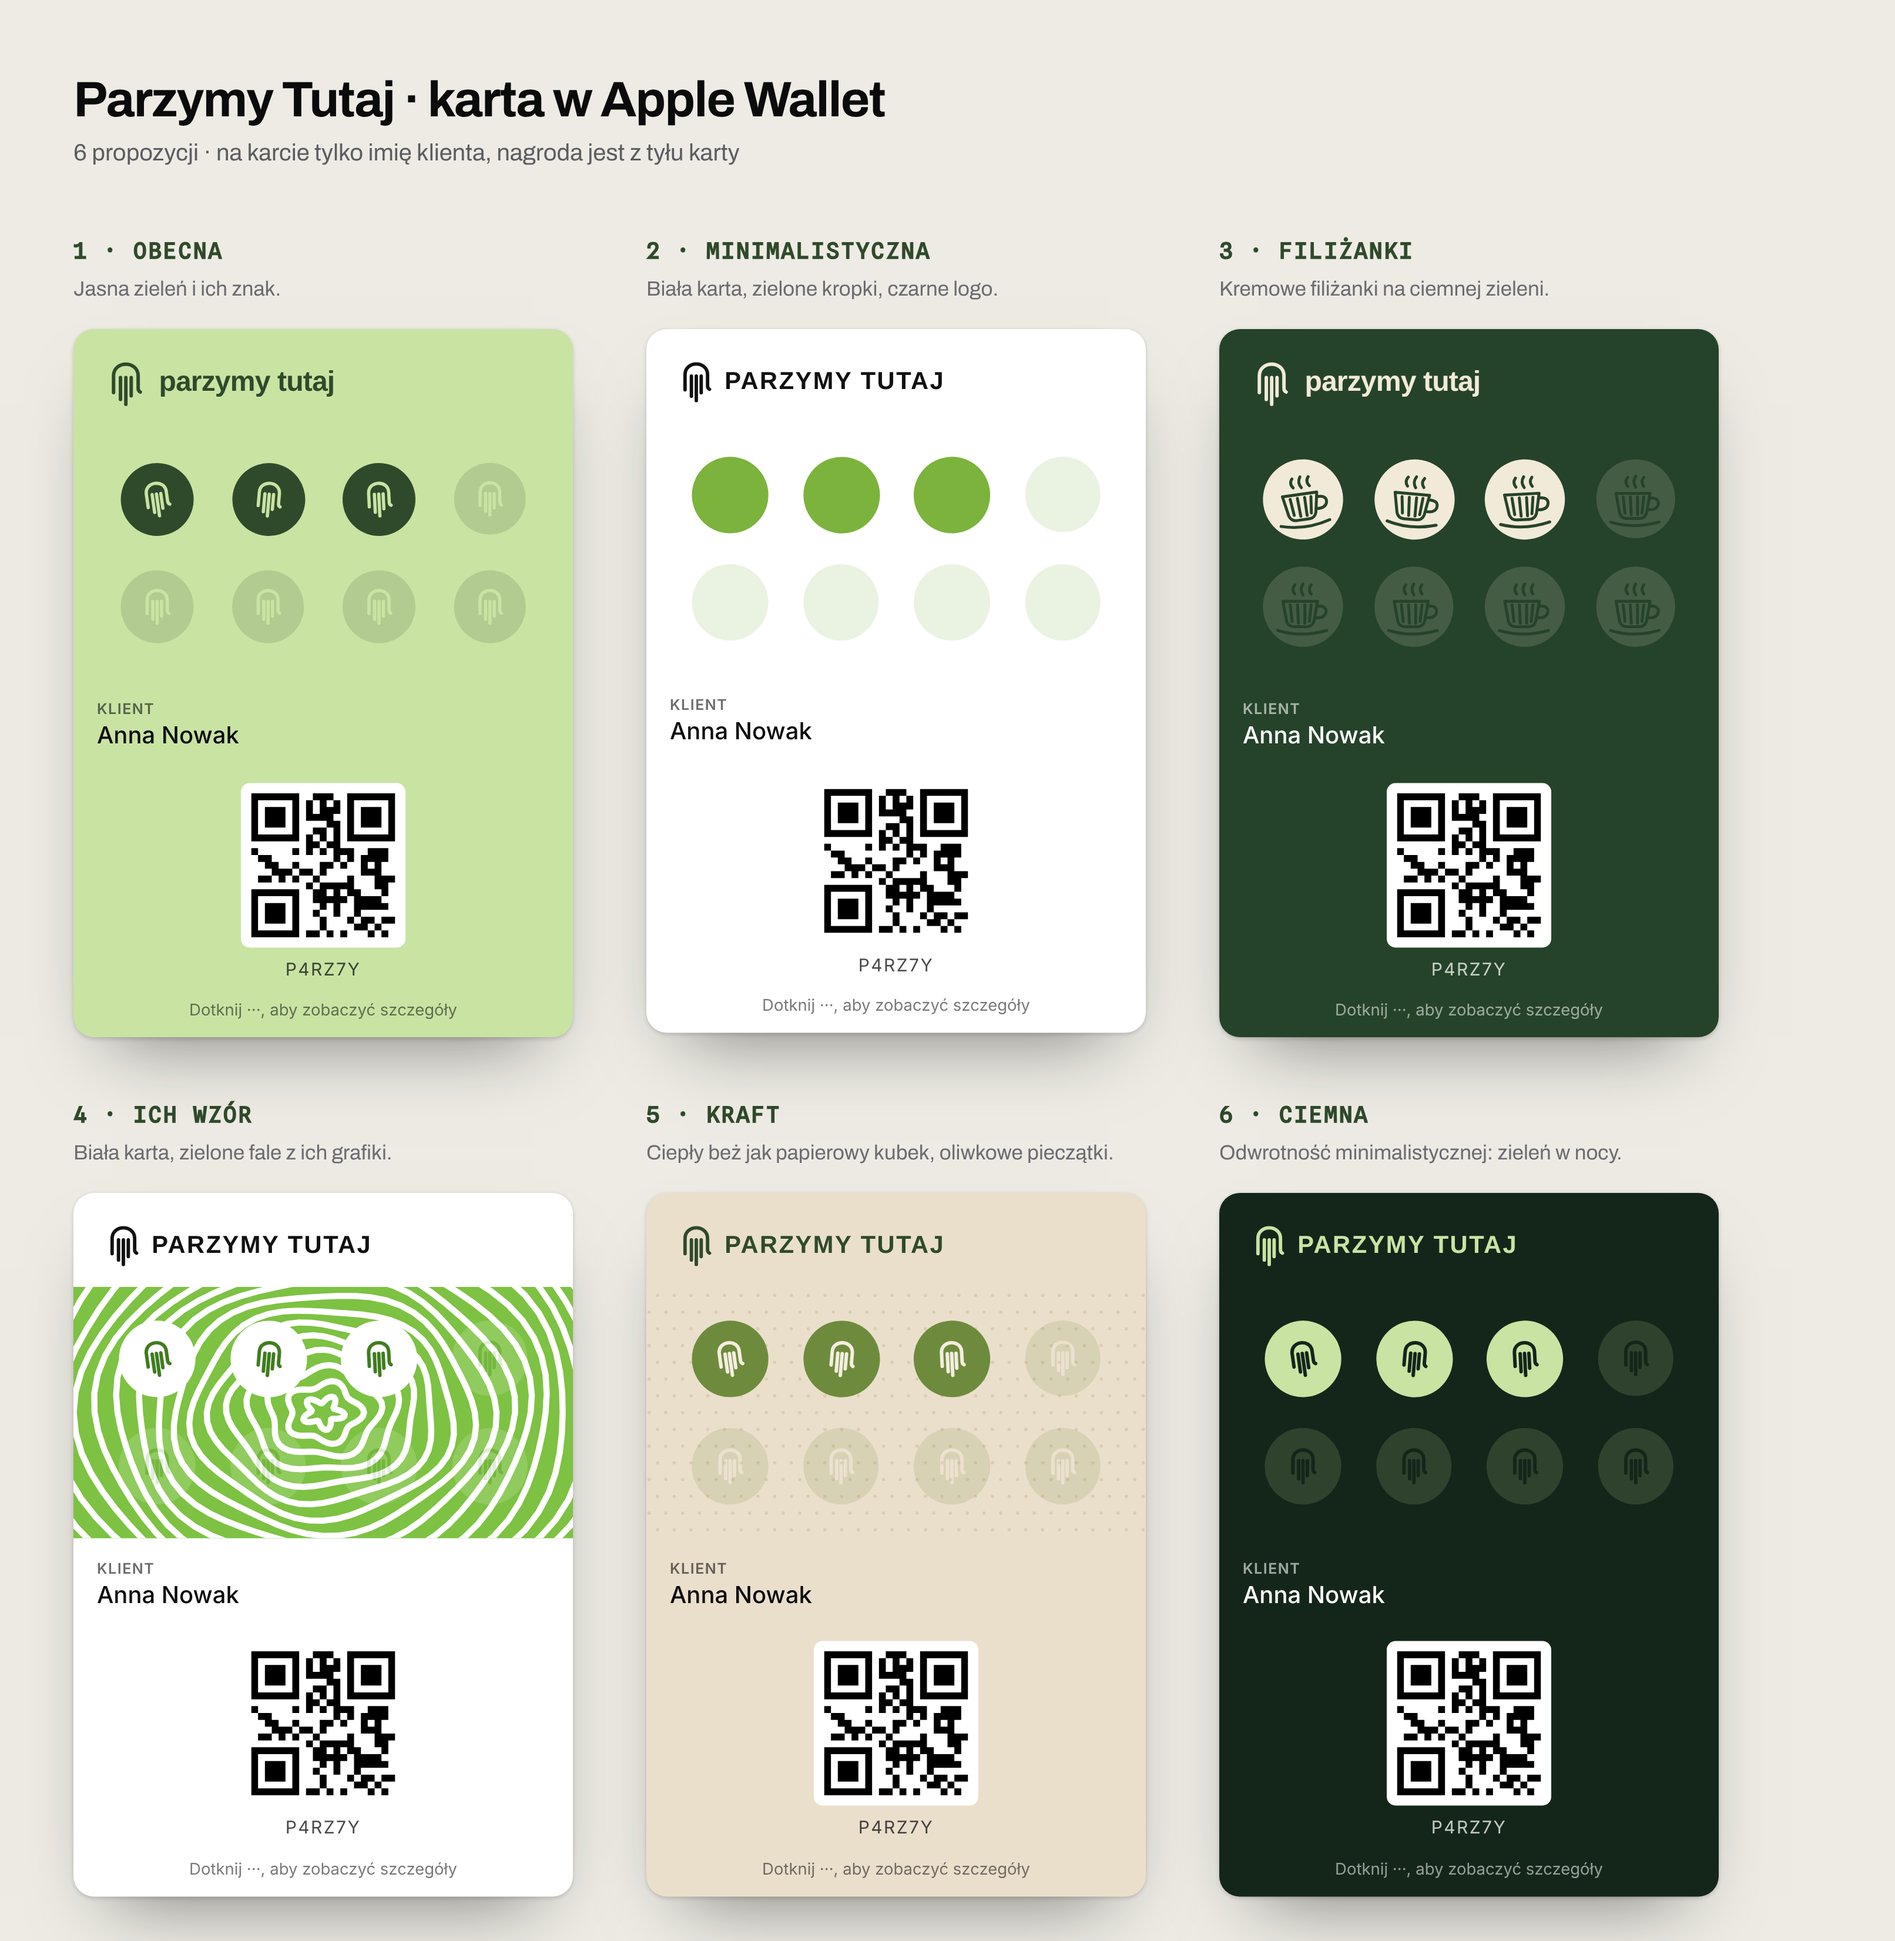
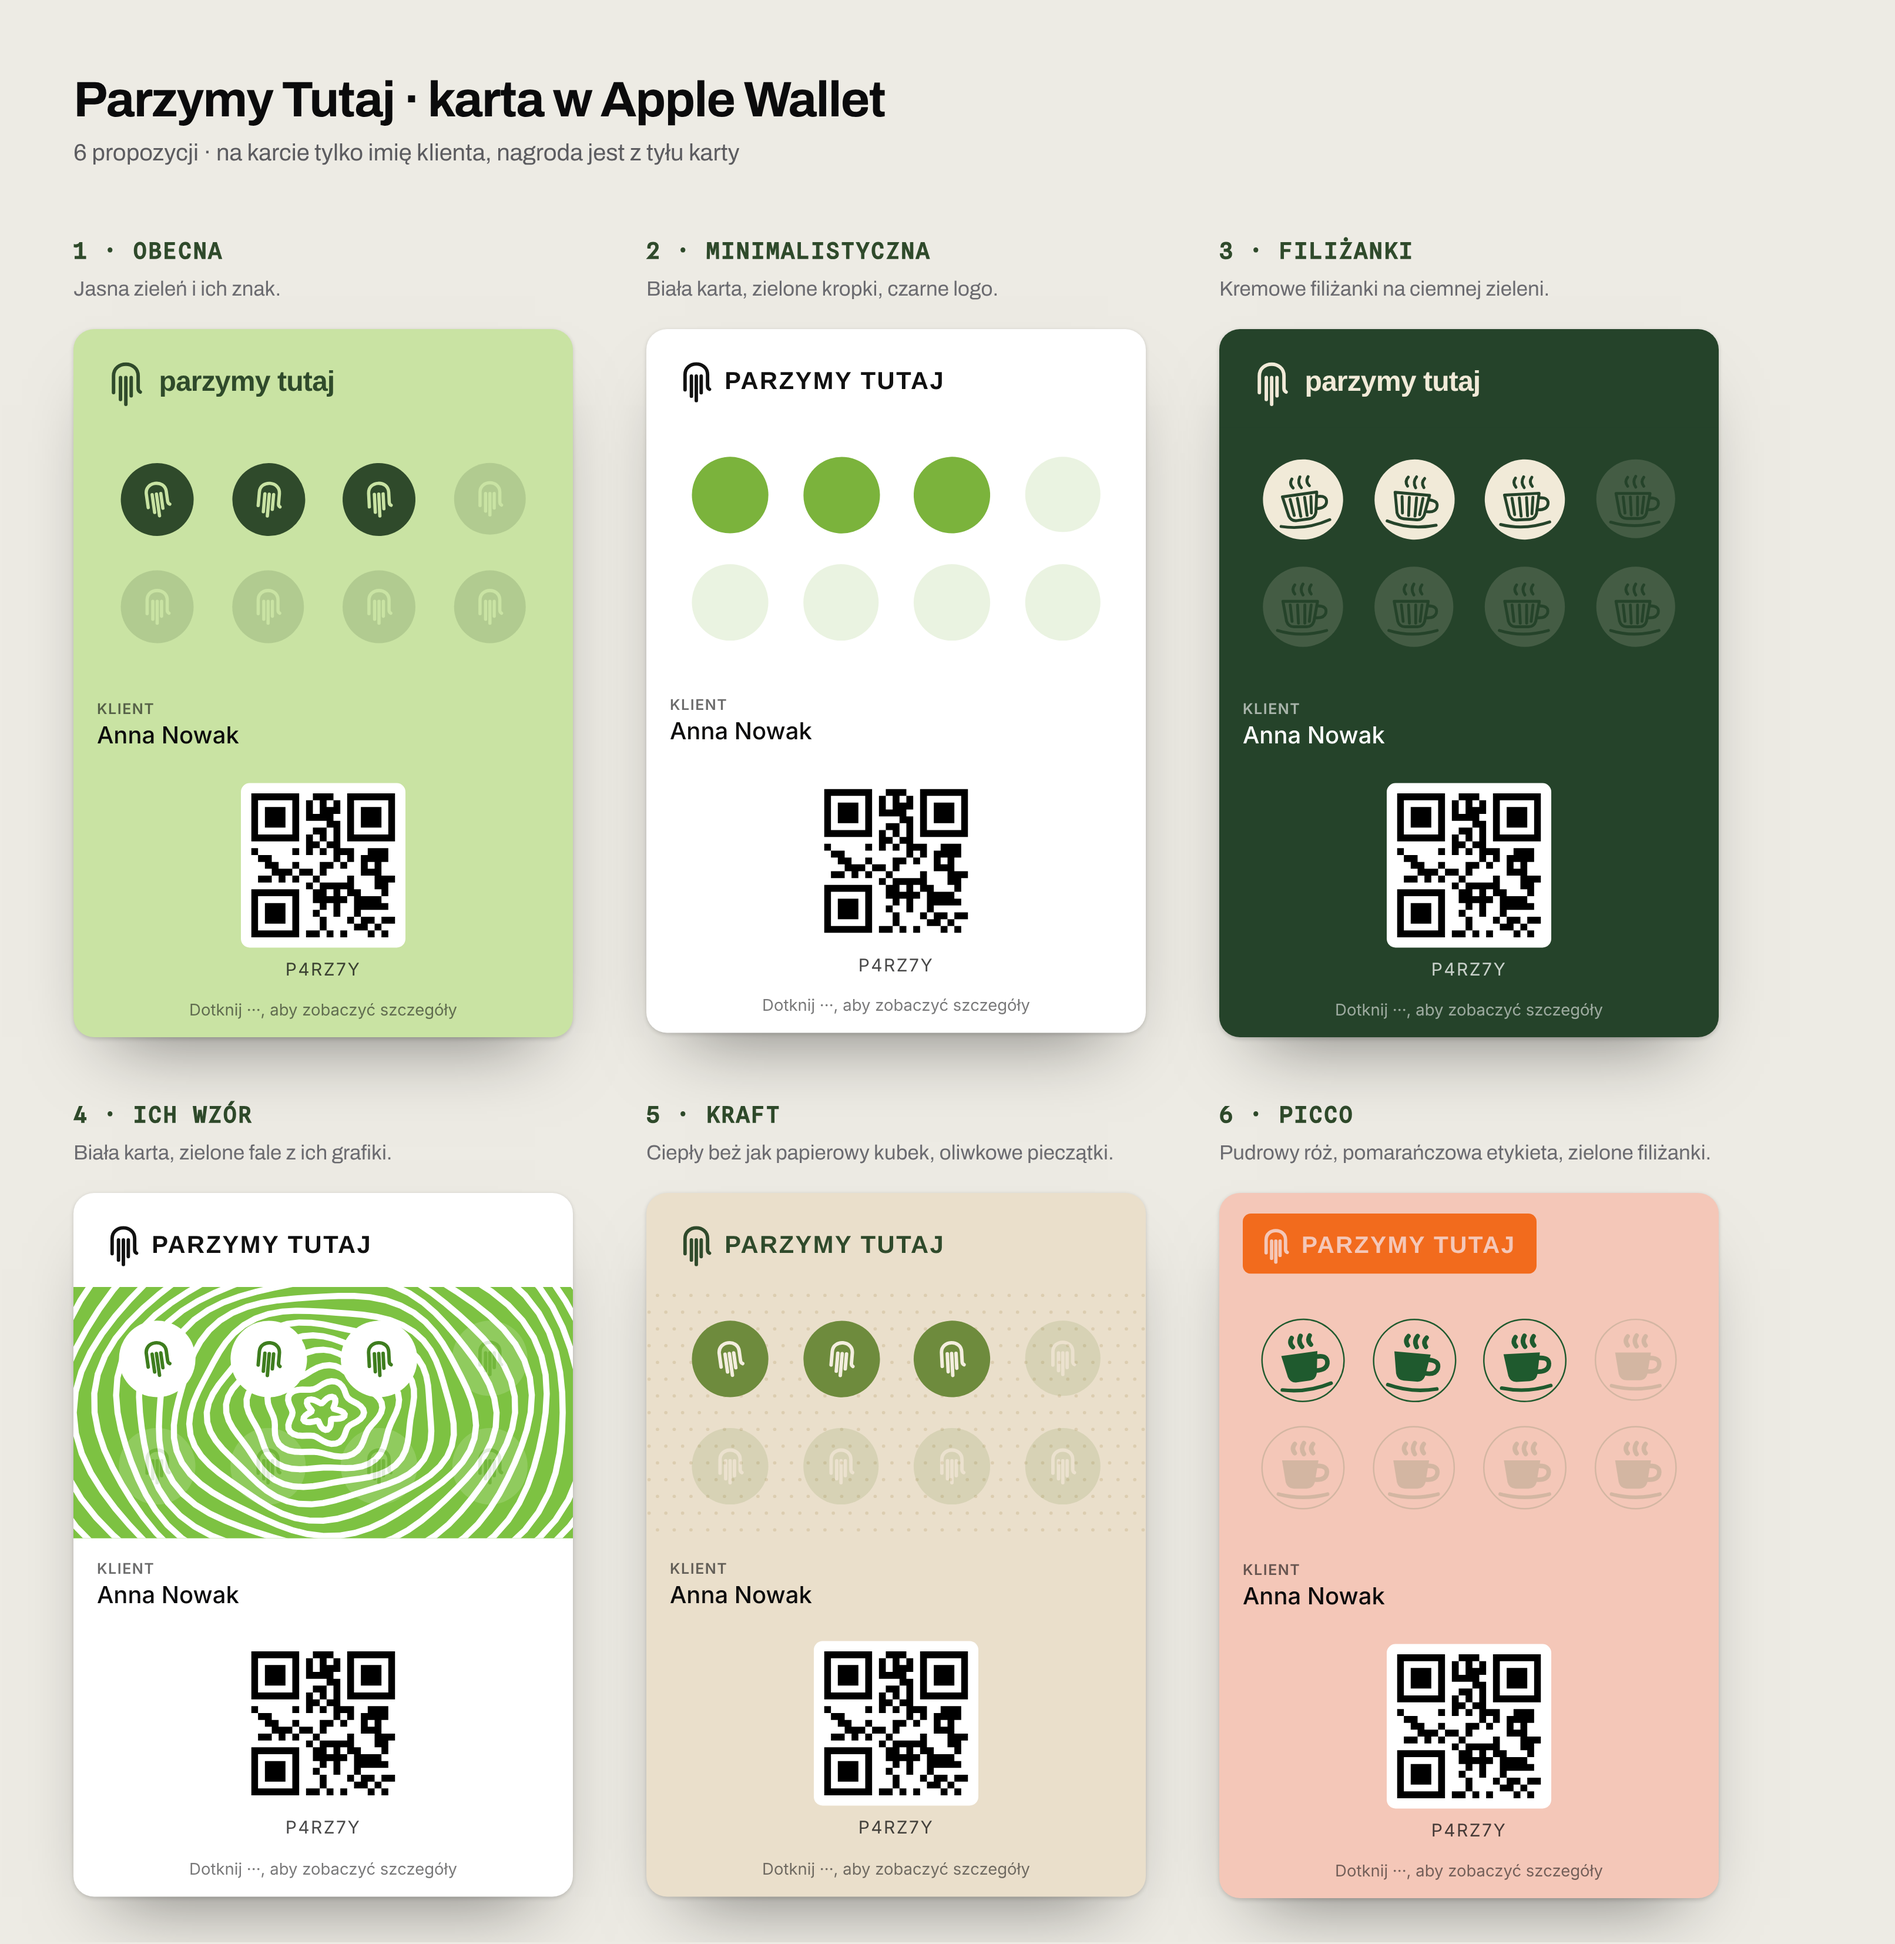
Parzymy options: card 6 in powder pink with an orange label and green cups
Claude-Session: https://claude.ai/code/session_01P7jvwC9jL6ipCqqXJiCoo9

diff --git a/print/parzymy-options.html b/print/parzymy-options.html
@@ -64,6 +64,10 @@ body{margin:0;background:#EDEBE4}
     return svgUrl(`<svg xmlns="http://www.w3.org/2000/svg" viewBox="0 0 1020 450"><rect width="1020" height="450" fill="${bg}"/><g fill="none" stroke="${line}" stroke-width="24">${p}</g></svg>`);
   }
   const dots = (bg, dot) => { let c = ''; for (let y = 15; y < 450; y += 30) for (let x = (y / 30 % 2) * 15 + 15; x < 1020; x += 30) c += `<circle cx="${x}" cy="${y}" r="3"/>`; return svgUrl(`<svg xmlns="http://www.w3.org/2000/svg" viewBox="0 0 1020 450"><rect width="1020" height="450" fill="${bg}"/><g fill="${dot}">${c}</g></svg>`); };
+  // The name in powder pink on an orange label (Apple Wallet has one background colour, so the bar is a label).
+  const label = (bg, ink) => svgUrl(`<svg xmlns="http://www.w3.org/2000/svg" width="640" height="132" viewBox="0 0 640 132"><rect width="640" height="132" rx="18" fill="${bg}"/><g transform="translate(26 18) scale(.92)">${markG(ink, 8)}</g><text x="128" y="86" font-family="Archivo, Arial, sans-serif" font-weight="800" font-size="52" letter-spacing="3" fill="${ink}">PARZYMY TUTAJ</text></svg>`);
+  // A coffee cup drawn in green inside a thin green ring.
+  const ringCup = ink => svgUrl(`<svg xmlns="http://www.w3.org/2000/svg" viewBox="0 0 100 100"><circle cx="50" cy="50" r="45" fill="none" stroke="${ink}" stroke-width="1.6"/><g fill="${ink}"><path d="M27 42 H67 L63 66 Q61 73 54 73 H40 Q33 73 31 66 Z"/></g><g fill="none" stroke="${ink}" stroke-width="5" stroke-linecap="round"><path d="M66 48 Q78 48 76 57 Q74 64 63 63"/><path d="M41 34 Q37 29 41 24 M51 35 Q47 29 51 23 M61 34 Q57 29 61 24"/></g><path d="M23 79 Q50 86 77 79" fill="none" stroke="${ink}" stroke-width="4" stroke-linecap="round"/></svg>`);
   const caps = ink => svgUrl(`<svg xmlns="http://www.w3.org/2000/svg" width="600" height="120" viewBox="0 0 600 120"><g transform="translate(4 8) scale(1)">${markG(ink, 7)}</g><text x="112" y="80" font-family="Archivo, Arial, sans-serif" font-weight="800" font-size="50" letter-spacing="3" fill="${ink}">PARZYMY TUTAJ</text></svg>`);
   const BASE = { ...L.green, hideReward: true, hideCount: true, stampsNeeded: 8 };
   const OPTS = [
@@ -72,7 +76,7 @@ body{margin:0;background:#EDEBE4}
     ['3 · Filiżanki', 'Kremowe filiżanki na ciemnej zieleni.', { ...BASE, color: '#25432A', ink: '#F1EAD8', strip: '#25432A', logo: L.green.logo.replace(/%232F4A2B/g, '%23F1EAD8'), stripImage: plain('#25432A'), stampImage: cup('#F1EAD8', '#25432A') }],
     ['4 · Ich wzór', 'Biała karta, zielone fale z ich grafiki.', { ...BASE, color: '#FFFFFF', ink: '#111111', strip: '#7DC242', logo: caps('#111111'), stripImage: swirl('#7DC242', '#FFFFFF'), stampImage: disc('#FFFFFF', `<g transform="translate(26 22) scale(.48)">${markG('#3E7D1E', 8)}</g>`) }],
     ['5 · Kraft', 'Ciepły beż jak papierowy kubek, oliwkowe pieczątki.', { ...BASE, color: '#EADFCB', ink: '#2F4A2B', strip: '#EADFCB', logo: caps('#2F4A2B'), stripImage: dots('#EADFCB', '#DCCDB0'), stampImage: disc('#6E8B3D', `<g transform="translate(26 22) scale(.48)">${markG('#F4EEDF', 8)}</g>`) }],
-    ['6 · Ciemna', 'Odwrotność minimalistycznej: zieleń w nocy.', { ...BASE, color: '#14261A', ink: '#C9E3A3', strip: '#14261A', logo: caps('#C9E3A3'), stripImage: plain('#14261A'), stampImage: disc('#C9E3A3', `<g transform="translate(26 22) scale(.48)">${markG('#14261A', 8)}</g>`) }]
+    ['6 · Picco', 'Pudrowy róż, pomarańczowa etykieta, zielone filiżanki.', { ...BASE, color: '#F4C7B8', ink: '#1F5A2E', strip: '#F4C7B8', logo: label('#F26B1D', '#F4C7B8'), stripImage: plain('#F4C7B8'), stampImage: ringCup('#1F5A2E') }]
   ];
   const who = { id: 'P4RZ7Y', name: 'Anna Nowak', stamps: 3 };
   document.getElementById('grid').innerHTML = OPTS.map(([h, p, card]) => `<div class="opt"><h2>${h}</h2><p>${p}</p>${UI.renderPass(card, who, { platform: 'apple' })}</div>`).join('');
